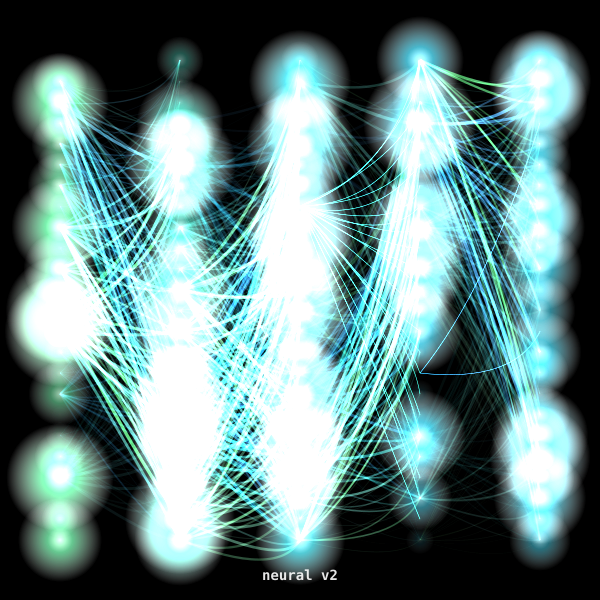
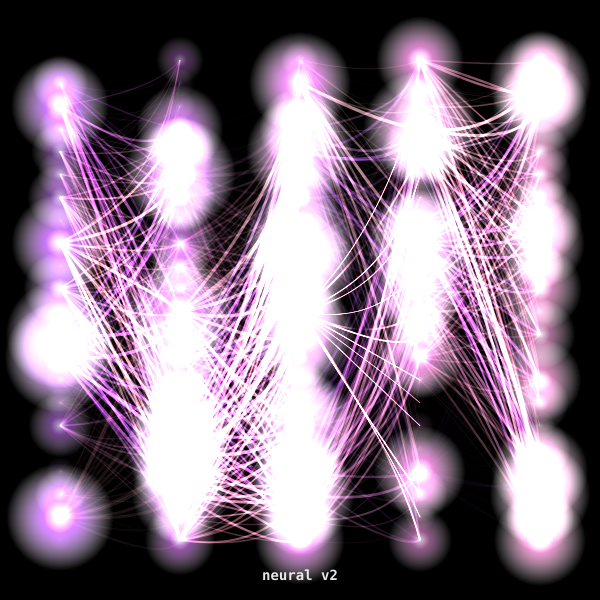
fix: 🎨 Restore vibrant colors and variety to enhanced generator
- Added bright neon palettes for plasma style (hot pink, electric yellow, cyan)
- Created style-specific vibrant color schemes for all 6 styles
- Fixed overly dark/gothic aesthetic with balanced backgrounds
- Improved contrast - dark enough for colors to pop but not pitch black
- Adjusted opacity levels for better color visibility
- Crystal now uses rainbow prisms, cosmic has bright nebulas
- Bioform uses warm organic greens and teals
- Each style now has its own unique mood and color personality

The enhanced generator now creates diverse, colorful artwork like the original rad generator while keeping the increased density and complexity.

diff --git a/src/artwork-generator-hex6-enhanced.js b/src/artwork-generator-hex6-enhanced.js
@@ -105,8 +105,48 @@ class Hex6EnhancedArtworkGenerator {
         // Generate enhanced color palette
         this.generateEnhancedPalette();
         
-        // Clear canvas
-        this.ctx.fillStyle = 'black';
+        // Balanced background - not black but not washed out
+        const bgGradient = this.ctx.createRadialGradient(
+            this.width/2, this.height/2, 0,
+            this.width/2, this.height/2, this.width * 0.7
+        );
+        
+        // Style-specific backgrounds with good contrast
+        const currentStyle = this.styles[this.styleIndex];
+        if (currentStyle === 'plasma') {
+            // Dark but colorful for plasma to pop
+            const bg1 = this.palette[0];
+            bgGradient.addColorStop(0, `hsla(${bg1.h}, 40%, 10%, 1)`);
+            bgGradient.addColorStop(0.5, `hsla(${bg1.h + 60}, 30%, 8%, 1)`);
+            bgGradient.addColorStop(1, `hsla(${bg1.h + 120}, 20%, 5%, 1)`);
+        } else if (currentStyle === 'liquid') {
+            // Deep ocean background
+            bgGradient.addColorStop(0, 'hsl(200, 50%, 12%)');
+            bgGradient.addColorStop(0.5, 'hsl(210, 40%, 8%)');
+            bgGradient.addColorStop(1, 'hsl(220, 30%, 4%)');
+        } else if (currentStyle === 'cosmic') {
+            // Deep space with color
+            bgGradient.addColorStop(0, 'hsl(250, 60%, 8%)');
+            bgGradient.addColorStop(0.5, 'hsl(270, 50%, 6%)');
+            bgGradient.addColorStop(1, 'hsl(290, 40%, 4%)');
+        } else if (currentStyle === 'bioform') {
+            // Dark organic
+            bgGradient.addColorStop(0, 'hsl(80, 20%, 10%)');
+            bgGradient.addColorStop(0.5, 'hsl(100, 15%, 8%)');
+            bgGradient.addColorStop(1, 'hsl(120, 10%, 5%)');
+        } else if (currentStyle === 'neural' || currentStyle === 'crystal') {
+            // Very dark for contrast
+            bgGradient.addColorStop(0, 'hsl(0, 0%, 8%)');
+            bgGradient.addColorStop(0.5, 'hsl(0, 0%, 5%)');
+            bgGradient.addColorStop(1, 'hsl(0, 0%, 2%)');
+        } else {
+            // Default dark gradient
+            const bg = this.palette[0];
+            bgGradient.addColorStop(0, `hsla(${bg.h}, 20%, 10%, 1)`);
+            bgGradient.addColorStop(1, `hsla(${bg.h + 90}, 10%, 5%, 1)`);
+        }
+        
+        this.ctx.fillStyle = bgGradient;
         this.ctx.fillRect(0, 0, this.width, this.height);
         
         // Render with enhanced complexity
@@ -156,20 +196,85 @@ class Hex6EnhancedArtworkGenerator {
     generateEnhancedPalette() {
         this.palette = [];
         const baseHue = (this.generation * 30 + this.inputs.audioEnergy * 180) % 360;
-        const sat = 30 + this.parameters.saturation * 70;
-        const lum = 20 + this.parameters.luminosity * 40;
         
-        // Generate rich, varied palettes
-        for (let i = 0; i < 12; i++) {  // More colors for variation
-            const hueShift = Math.sin(i * 0.5) * 60;
-            const satShift = Math.cos(i * 0.3) * 20;
-            const lumShift = Math.sin(i * 0.7) * 15;
-            
-            this.palette.push({
-                h: (baseHue + hueShift + i * 15) % 360,
-                s: Math.max(10, Math.min(100, sat + satShift)),
-                l: Math.max(10, Math.min(90, lum + lumShift))
-            });
+        // MUCH BRIGHTER palettes - like the rad generator!
+        const sat = 50 + this.parameters.saturation * 50; // 50-100% saturation
+        const lum = 40 + this.parameters.luminosity * 30; // 40-70% lightness (brighter!)
+        
+        // Style-specific bright palettes
+        const style = this.styles[this.styleIndex];
+        
+        if (style === 'plasma') {
+            // Bright neons - pinks, yellows, cyans
+            const neonColors = [
+                { h: 320, s: 100, l: 60 }, // Hot pink
+                { h: 45, s: 100, l: 65 },  // Electric yellow
+                { h: 180, s: 100, l: 55 }, // Cyan
+                { h: 270, s: 90, l: 65 },  // Purple
+                { h: 90, s: 80, l: 60 },   // Lime
+                { h: 20, s: 100, l: 60 }   // Orange
+            ];
+            this.palette = neonColors.concat(neonColors); // Duplicate for 12 colors
+        } else if (style === 'cosmic') {
+            // Space colors but BRIGHT - blues, purples, pinks with stars
+            for (let i = 0; i < 12; i++) {
+                this.palette.push({
+                    h: 200 + i * 15, // Blues to purples
+                    s: 70 + Math.sin(i) * 30,
+                    l: 50 + Math.cos(i) * 20 // Brighter!
+                });
+            }
+        } else if (style === 'bioform') {
+            // Organic greens, teals, warm colors
+            const bioColors = [
+                { h: 120, s: 70, l: 50 }, // Green
+                { h: 160, s: 60, l: 55 }, // Teal
+                { h: 80, s: 70, l: 60 },  // Yellow-green
+                { h: 40, s: 80, l: 55 },  // Gold
+                { h: 200, s: 50, l: 60 }, // Sky blue
+                { h: 140, s: 60, l: 50 }  // Mint
+            ];
+            this.palette = bioColors.concat(bioColors);
+        } else if (style === 'liquid') {
+            // Ocean colors - bright blues, aquas, foams
+            for (let i = 0; i < 12; i++) {
+                this.palette.push({
+                    h: 170 + i * 8, // Aqua range
+                    s: 60 + Math.sin(i * 0.5) * 40,
+                    l: 55 + Math.sin(i * 0.3) * 15
+                });
+            }
+        } else if (style === 'neural') {
+            // Electric colors - bright purples, blues, pinks
+            for (let i = 0; i < 12; i++) {
+                this.palette.push({
+                    h: 260 + i * 10,
+                    s: 80 + Math.sin(i) * 20,
+                    l: 55 + i * 2 // Getting brighter
+                });
+            }
+        } else if (style === 'crystal') {
+            // Rainbow prisms! All colors, bright and shimmering
+            for (let i = 0; i < 12; i++) {
+                this.palette.push({
+                    h: (i * 30) % 360, // Full spectrum
+                    s: 70 + Math.sin(i) * 30,
+                    l: 60 + Math.cos(i) * 10
+                });
+            }
+        } else {
+            // Default: vibrant rainbow
+            for (let i = 0; i < 12; i++) {
+                const hueShift = Math.sin(i * 0.5) * 60;
+                const satShift = Math.cos(i * 0.3) * 20;
+                const lumShift = Math.sin(i * 0.7) * 15;
+                
+                this.palette.push({
+                    h: (baseHue + hueShift + i * 30) % 360,
+                    s: Math.max(50, Math.min(100, sat + satShift)),
+                    l: Math.max(40, Math.min(80, lum + lumShift))
+                });
+            }
         }
     }
     
@@ -179,7 +284,8 @@ class Hex6EnhancedArtworkGenerator {
         // Multi-layer rendering for ALL styles
         for (let layer = 0; layer < 4; layer++) {
             this.ctx.save();
-            this.ctx.globalAlpha = 0.7 - layer * 0.15;
+            // Higher opacity for more vibrant colors
+            this.ctx.globalAlpha = 0.9 - layer * 0.1; // Was 0.7 - layer * 0.15
             
             switch(currentStyle) {
                 case 'plasma':
@@ -215,7 +321,8 @@ class Hex6EnhancedArtworkGenerator {
         const scale = 20 + this.parameters.scale * 100; // Dramatic size range
         const turbulence = this.parameters.turbulence;
         
-        this.ctx.globalCompositeOperation = layer === 0 ? 'source-over' : 'screen';
+        // Use lighter blending modes for brighter output
+        this.ctx.globalCompositeOperation = layer === 0 ? 'source-over' : 'lighter';
         
         // Create flowing plasma blobs
         for (let i = 0; i < density; i++) {
@@ -236,15 +343,15 @@ class Hex6EnhancedArtworkGenerator {
             // Variable size based on position and noise
             const size = scale * (0.3 + this.noise2D(i * 0.1, layer * 0.5) * 0.7);
             
-            // Multi-stop gradient for complex glow
+            // Multi-stop gradient for BRIGHT VISIBLE glow
             const gradient = this.ctx.createRadialGradient(x, y, 0, x, y, size);
             const color = this.palette[(i + layer * 3) % this.palette.length];
             
-            // Enhanced gradient with more stops
-            gradient.addColorStop(0, `hsla(${color.h}, ${color.s}%, ${color.l + 20}%, ${0.8})`);
-            gradient.addColorStop(0.2, `hsla(${color.h}, ${color.s}%, ${color.l + 10}%, ${0.6})`);
-            gradient.addColorStop(0.5, `hsla(${color.h}, ${color.s}%, ${color.l}%, ${0.3})`);
-            gradient.addColorStop(0.8, `hsla(${color.h + 10}, ${color.s * 0.8}%, ${color.l * 0.7}%, ${0.1})`);
+            // VIBRANT NEON gradient like the rad generator
+            gradient.addColorStop(0, `hsla(${color.h}, ${color.s}%, ${color.l}%, 0.95)`);
+            gradient.addColorStop(0.3, `hsla(${color.h}, ${color.s * 0.9}%, ${color.l * 0.9}%, 0.8)`);
+            gradient.addColorStop(0.5, `hsla(${color.h + 10}, ${color.s * 0.8}%, ${color.l * 0.8}%, 0.5)`);
+            gradient.addColorStop(0.8, `hsla(${color.h + 20}, ${color.s * 0.7}%, ${color.l * 0.7}%, 0.2)`);
             gradient.addColorStop(1, 'transparent');
             
             this.ctx.fillStyle = gradient;
@@ -284,7 +391,7 @@ class Hex6EnhancedArtworkGenerator {
         const scale = this.parameters.scale;
         
         if (layer === 0) {
-            // Deep space gradient with variation
+            // Brighter space gradient - not pitch black!
             const g1 = this.ctx.createRadialGradient(
                 this.width * (0.3 + this.noise2D(1, 1) * 0.4),
                 this.height * (0.3 + this.noise2D(2, 2) * 0.4),
@@ -294,9 +401,10 @@ class Hex6EnhancedArtworkGenerator {
             );
             
             const deepColor = this.palette[0];
-            g1.addColorStop(0, `hsla(${deepColor.h}, ${deepColor.s}%, 5%, 1)`);
-            g1.addColorStop(0.5, `hsla(${deepColor.h + 180}, ${deepColor.s * 0.5}%, 2%, 1)`);
-            g1.addColorStop(1, 'black');
+            // Much brighter background - deep blue/purple instead of black
+            g1.addColorStop(0, `hsla(${deepColor.h}, ${deepColor.s * 0.7}%, 20%, 1)`);
+            g1.addColorStop(0.5, `hsla(${deepColor.h + 180}, ${deepColor.s * 0.5}%, 15%, 1)`);
+            g1.addColorStop(1, `hsla(${deepColor.h + 90}, 40%, 10%, 1)`);
             
             this.ctx.fillStyle = g1;
             this.ctx.fillRect(0, 0, this.width, this.height);
@@ -566,12 +674,16 @@ class Hex6EnhancedArtworkGenerator {
         
         // First fill background on layer 0
         if (layer === 0) {
+            // Bright prismatic background for crystals
             const bgGradient = this.ctx.createRadialGradient(
                 this.width/2, this.height/2, 0,
                 this.width/2, this.height/2, this.width/2
             );
-            bgGradient.addColorStop(0, 'rgba(10, 10, 30, 1)');
-            bgGradient.addColorStop(1, 'rgba(0, 0, 10, 1)');
+            // Lighter, more colorful background
+            const bgColor = this.palette[0];
+            bgGradient.addColorStop(0, `hsla(${bgColor.h}, 30%, 25%, 1)`);
+            bgGradient.addColorStop(0.5, `hsla(${bgColor.h + 60}, 20%, 20%, 1)`);
+            bgGradient.addColorStop(1, `hsla(${bgColor.h + 120}, 25%, 15%, 1)`);
             this.ctx.fillStyle = bgGradient;
             this.ctx.fillRect(0, 0, this.width, this.height);
         }

diff --git a/test-bright-styles.js b/test-bright-styles.js
@@ -1,0 +1,39 @@
+#!/usr/bin/env node
+
+const Hex6EnhancedArtworkGenerator = require('./src/artwork-generator-hex6-enhanced');
+const fs = require('fs').promises;
+const path = require('path');
+
+async function testBrightStyles() {
+    console.log('🌈 Testing BRIGHT Enhanced Styles\n');
+    
+    const outputDir = path.join(__dirname, 'hex6-bright');
+    await fs.mkdir(outputDir, { recursive: true });
+    
+    const styles = ['plasma', 'cosmic', 'bioform', 'neural', 'crystal', 'liquid'];
+    
+    for (const style of styles) {
+        const generator = new Hex6EnhancedArtworkGenerator();
+        
+        // High energy for bright colors
+        await generator.generate({
+            style: style,
+            title: style.toUpperCase(),
+            audioFeatures: { 
+                energy: 0.8,
+                tempo: 140
+            },
+            moonPhase: 0.6,
+            seed: Date.now()
+        });
+        
+        const filename = `${style}_bright.png`;
+        await generator.saveToFile(path.join(outputDir, filename));
+        console.log(`✨ ${style}: Generated bright version`);
+    }
+    
+    console.log('\n🎨 Bright styles complete!');
+    console.log(`📁 View in: ${outputDir}`);
+}
+
+testBrightStyles().catch(console.error);
